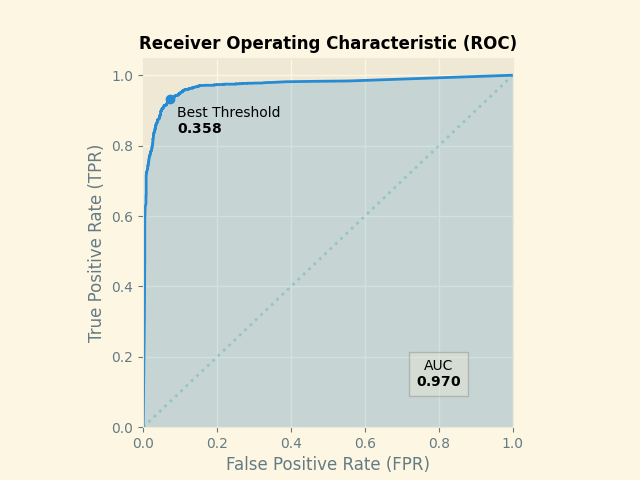
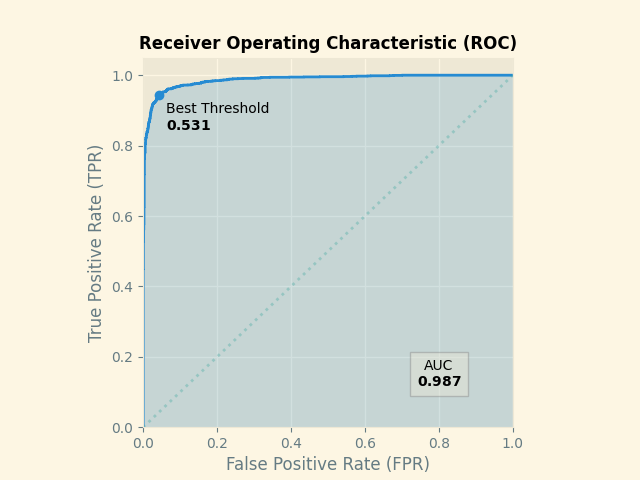
rm dvclive

Changed region(s): [[0.2188, 0.125, 0.7812, 0.4375], [0.625, 0.7812, 0.7188, 0.8125], [0.2188, 0.5, 0.25, 0.5625]]

diff --git a/src/optimize.py b/src/optimize.py
@@ -1,22 +1,23 @@
 """
-Module for training a machine learning model with specified hyperparameters.
+Module for hyperparameter optimization.
 """
-# TODO: add comments
 
 from functools import partial
 from pathlib import Path
 
 import dvc.api
+import matplotlib.pyplot as plt
 import numpy as np
 import optuna
 import yaml
 from optuna.storages import JournalFileStorage, JournalStorage
 
 from helper import create_model, load_data, score_model
+from plots import plot_optimization_history
 
 
 def get_hyperparams(trial: optuna.Trial, space: dict) -> dict:
-    """..."""
+    """Generate hyperparameters based on the search space."""
 
     # For TF-IDF
     max_ngram_word = trial.suggest_int("max_ngram_word", **space["max_ngram_word"])
@@ -49,7 +50,7 @@ def get_hyperparams(trial: optuna.Trial, space: dict) -> dict:
 
 
 def objective(X_train, y_train, space, trial: optuna.Trial):
-    """..."""
+    """Objective function for Optuna optimization."""
 
     # Get hyperparameters from Optuna trial
     hyperparams = get_hyperparams(trial, space)
@@ -74,12 +75,8 @@ def objective(X_train, y_train, space, trial: optuna.Trial):
 
 
 def optimize():
-    """
-    Train a machine learning model with specified hyperparameters and save the model.
+    """Perform hyperparameter optimization using Optuna."""
 
-    Reads hyperparameters and data paths from DVC parameters, creates a model,
-    trains the model, and saves the trained model to a specified file.
-    """
     params = dvc.api.params_show()
     X_train, y_train = load_data(params["data"]["train"])
 
@@ -105,6 +102,9 @@ def optimize():
         n_trials=params["train"]["n_trials"],
         show_progress_bar=True,
     )
+
+    plot_optimization_history(study.trials)
+    plt.savefig("live/images/optimization_history.png")
 
     hyperparams = get_hyperparams(
         study.best_trial,

diff --git a/src/plots.py b/src/plots.py
@@ -7,6 +7,7 @@ calibration curve, ROC curve, and precision-recall curve.
 
 import matplotlib.pyplot as plt
 import numpy as np
+import optuna
 import seaborn as sns
 from matplotlib.colors import LinearSegmentedColormap
 from sklearn.calibration import calibration_curve
@@ -19,6 +20,26 @@ from sklearn.metrics import (
 )
 
 plt.style.use("Solarize_Light2")
+
+
+def plot_optimization_history(trials: list[optuna.trial.FrozenTrial], ax=None):
+    """Plot optimization history"""
+
+    # If ax is not provided, create a new axis
+    if ax is None:
+        ax = plt.gca()
+
+    values = [trial.value for trial in trials]
+    best_values = np.maximum.accumulate(values)
+
+    ax.plot(values, "o", label="Objective value")
+    ax.plot(best_values, label="Best Value")
+
+    ax.legend(framealpha=0.4)
+
+    ax.tick_params(axis="both", which="both", length=0)
+    ax.set_title("Optimization history", fontweight="bold", fontsize=12)
+    return ax
 
 
 def plot_score_distribution(y_true, y_scores, labels=(0, 1), ax=None):

diff --git a/live/model/README.md b/live/model/README.md
@@ -31,11 +31,11 @@ To understand what phishing is, refer to the Wikipedia page:
 
 | Metric    |    Value |
 |-----------|----------|
-| roc_auc   | 0.970012 |
-| accuracy  | 0.927359 |
-| f1        | 0.926026 |
-| precision | 0.943344 |
-| recall    | 0.909332 |
+| roc_auc   | 0.986844 |
+| accuracy  | 0.948568 |
+| f1        | 0.948623 |
+| precision | 0.947619 |
+| recall    | 0.949629 |
 
 # How to Get Started with the Model
 
